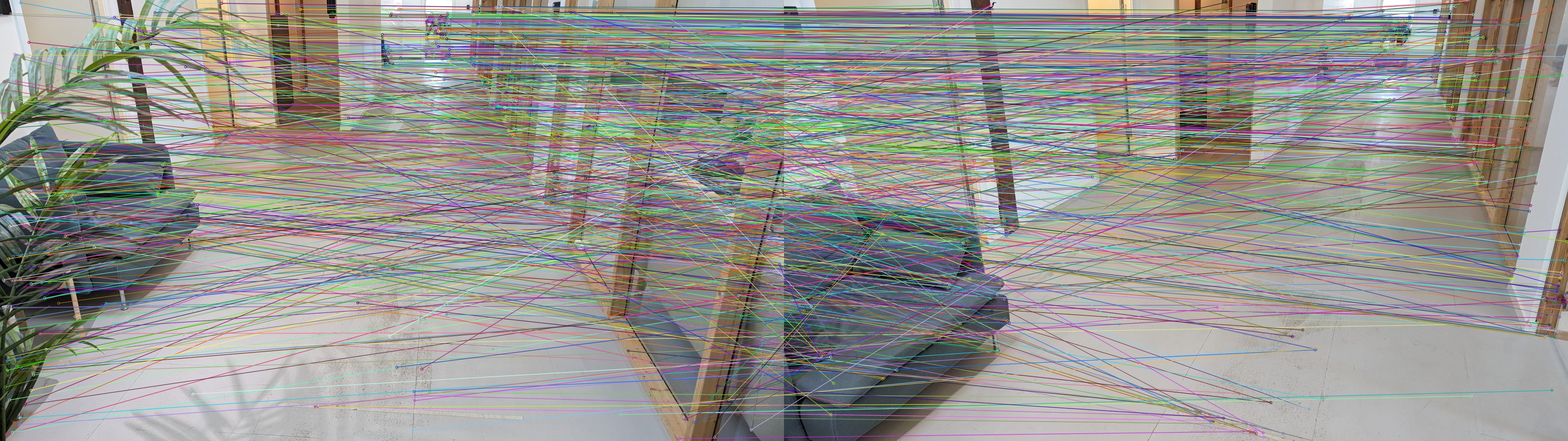
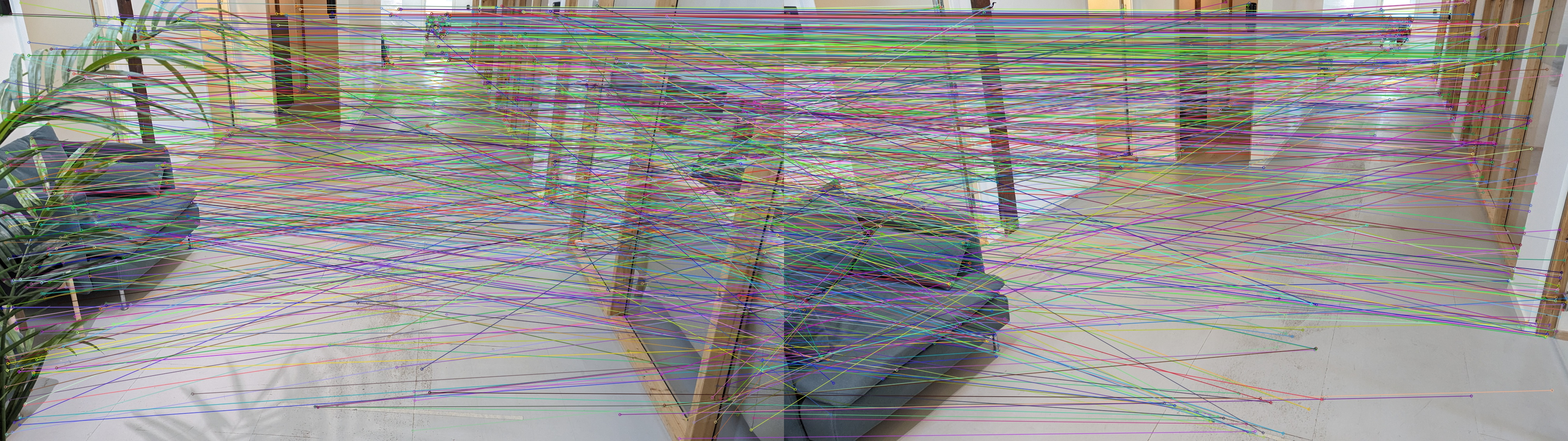
implemented non-linear solver

diff --git a/main.py b/main.py
@@ -42,7 +42,8 @@ kp2_ = np.array([kp.pt for kp in kp2])
 kp1_ = kp1_[indices[:, 0]]
 kp2_ = kp2_[indices[:, 1]]
 
-F, mask = cv2.findFundamentalMat(kp1_, kp2_, method=cv2.FM_RANSAC, ransacReprojThreshold=1, confidence=0.99999, maxIters=1000000)
+F, mask = cv2.findFundamentalMat(kp1_, kp2_, method=cv2.FM_RANSAC, ransacReprojThreshold=3, confidence=0.9999, maxIters=10000)
+F, _ = cv2.findFundamentalMat(kp1_[mask.flatten() == 1], kp2_[mask.flatten() == 1], method=cv2.FM_LMEDS)
 
 update_matches = [m for m, id in zip(matches, mask) if id != 0]
 
@@ -54,17 +55,44 @@ cv2.imwrite('imgs/matches2.jpg', img4)
 # setup non-liear optization problem of the fundamental matrix
 from scipy.optimize import least_squares
 
+def rotm_x(theta):
+    return np.array([[1, 0, 0], [0, np.cos(theta), -np.sin(theta)], [0, np.sin(theta), np.cos(theta)]])
+
+def rotm_y(theta):
+    return np.array([[np.cos(theta), 0, np.sin(theta)], [0, 1, 0], [-np.sin(theta), 0, np.cos(theta)]])
+
+def convert_fundamental_matrix(F):
+    U, S, Vt = np.linalg.svd(F)
+    S[2] = 0
+    S[1] = S[1] / S[0]
+    S[0] = 1
+    return U, S, Vt.T
+
+U_, S_, V_ = convert_fundamental_matrix(F)
+
+x = np.array(kp1_[mask.flatten() == 1])
+y = np.array(kp2_[mask.flatten() == 1])
+
+# pad with a column of ones
+x = np.hstack([x, np.ones((x.shape[0], 1))])
+y = np.hstack([y, np.ones((y.shape[0], 1))])
+
 # Define the error function
-def error_func(params, x, y):
-    F = params.reshape(3, 3)  # reshape the parameters into a 3x3 matrix
-    x_prime = np.dot(F, x)  # estimate the correspoding points
-    residuals = y - x_prime  # calculate the residuals
+def error_func(params, x, y):    
+    U = U_ @ rotm_x(params[0])
+    V = V_ @ rotm_y(params[1])
+    S = S_[1] + params[2]
+    F = U[:, 0].reshape(3, 1) @ V[:, 0].reshape(1, 3) + S * U[:, 1].reshape(3, 1) @ V[:, 1].reshape(1, 3)
+    
+    F = F / F[2, 2]
+    residuals = np.sum(((F @ x.T).T * y), axis=1)    
+    
     return residuals.ravel()  # return the residuals as a 1D array
 
-def optimize_fundamental_matrix(x, y, F_initial):
-    params_initial = F_initial.ravel()  # flatten the initial fundamental matrix into a 1D array
-    result = least_squares(error_func, params_initial, args=(x, y))  # run the optimization
-    F_optimized = result.x.reshape(3, 3)  # reshape the optimized parameters into a 3x3 matrix
+def optimize_fundamental_matrix(x, y):
+    params_initial = [0, 0, 0]
+    result = least_squares(error_func, params_initial, args=(x, y), loss='cauchy', verbose=True)
+    F_optimized = result.x.reshape(3, )
     return F_optimized
 
-
+optimize_fundamental_matrix(x, y)
